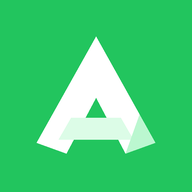
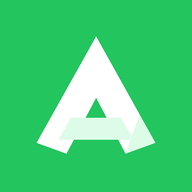
fix(brand): address final review findings

Changed region(s): [[0.6562, 0.5938, 0.8125, 0.8125]]

diff --git a/frontend/src/app/components/NavBar.tsx b/frontend/src/app/components/NavBar.tsx
@@ -167,7 +167,7 @@ export default function NavBar() {
           <div className="ml-auto md:hidden w-36">
             {searchInput(
               mobileSearchRef as React.RefObject<HTMLDivElement>,
-              "w-full rounded-md border border-neutral-300 py-1.5 pl-8 pr-3 text-sm focus:border-brand-bright focus:outline-none focus:ring-2 focus:ring-brand-light",
+              "w-full rounded-md border border-neutral-300 py-1.5 pl-8 pr-3 text-sm focus:border-brand-bright focus:outline-none focus:ring-2 focus:ring-brand-strong",
               "absolute left-0 right-0 top-full z-50 mt-1 overflow-hidden rounded-xl border border-neutral-200 bg-white shadow-lg"
             )}
           </div>
@@ -176,7 +176,7 @@ export default function NavBar() {
           <nav className="ml-auto hidden items-center gap-1 md:flex">
             {searchInput(
               desktopSearchRef as React.RefObject<HTMLDivElement>,
-              "w-44 rounded-md border border-neutral-300 py-1.5 pl-8 pr-3 text-sm focus:border-brand-bright focus:outline-none focus:ring-2 focus:ring-brand-light",
+              "w-44 rounded-md border border-neutral-300 py-1.5 pl-8 pr-3 text-sm focus:border-brand-bright focus:outline-none focus:ring-2 focus:ring-brand-strong",
               "absolute right-0 top-full z-50 mt-1 w-72 overflow-hidden rounded-xl border border-neutral-200 bg-white shadow-lg"
             )}
 

diff --git a/frontend/src/app/squads/page.tsx b/frontend/src/app/squads/page.tsx
@@ -95,7 +95,7 @@ export default function SquadsPage() {
             />
             <button
               type="submit"
-              className="rounded-md bg-brand-strong px-4 py-2 text-sm font-medium text-white hover:bg-green-800 focus-visible:outline-none focus-visible:ring-2 focus-visible:ring-brand-light focus-visible:ring-offset-2"
+              className="rounded-md bg-brand-strong px-4 py-2 text-sm font-medium text-white hover:bg-green-800 focus-visible:outline-none focus-visible:ring-2 focus-visible:ring-brand-strong focus-visible:ring-offset-2"
             >
               만들기
             </button>
@@ -113,7 +113,7 @@ export default function SquadsPage() {
             />
             <button
               type="submit"
-              className="rounded-md bg-brand-strong px-4 py-2 text-sm font-medium text-white hover:bg-green-800 focus-visible:outline-none focus-visible:ring-2 focus-visible:ring-brand-light focus-visible:ring-offset-2"
+              className="rounded-md bg-brand-strong px-4 py-2 text-sm font-medium text-white hover:bg-green-800 focus-visible:outline-none focus-visible:ring-2 focus-visible:ring-brand-strong focus-visible:ring-offset-2"
             >
               참여
             </button>

diff --git a/frontend/src/app/invite/page.tsx b/frontend/src/app/invite/page.tsx
@@ -59,7 +59,7 @@ export default function InvitePage() {
         <button
           type="submit"
           disabled={submitting || !code.trim()}
-          className="w-full rounded-md bg-brand-strong px-4 py-2.5 text-sm font-medium text-white transition hover:bg-green-800 disabled:cursor-not-allowed disabled:opacity-50 focus-visible:outline-none focus-visible:ring-2 focus-visible:ring-brand-light focus-visible:ring-offset-2"
+          className="w-full rounded-md bg-brand-strong px-4 py-2.5 text-sm font-medium text-white transition hover:bg-green-800 disabled:cursor-not-allowed disabled:opacity-50 focus-visible:outline-none focus-visible:ring-2 focus-visible:ring-brand-strong focus-visible:ring-offset-2"
         >
           {submitting ? "가입 처리 중…" : "가입하기"}
         </button>

diff --git a/frontend/src/app/onboarding/page.tsx b/frontend/src/app/onboarding/page.tsx
@@ -169,7 +169,7 @@ export default function OnboardingPage() {
         type="button"
         onClick={submit}
         disabled={saving || !termsChecked || !privacyChecked}
-        className="w-full rounded-md bg-brand-strong px-4 py-2.5 text-sm font-medium text-white hover:bg-green-800 disabled:opacity-50 focus-visible:outline-none focus-visible:ring-2 focus-visible:ring-brand-light focus-visible:ring-offset-2"
+        className="w-full rounded-md bg-brand-strong px-4 py-2.5 text-sm font-medium text-white hover:bg-green-800 disabled:opacity-50 focus-visible:outline-none focus-visible:ring-2 focus-visible:ring-brand-strong focus-visible:ring-offset-2"
       >
         {saving ? "저장 중…" : "시작하기"}
       </button>

diff --git a/frontend/src/app/page.tsx b/frontend/src/app/page.tsx
@@ -44,7 +44,7 @@ function Landing() {
       </p>
       <a
         href={`${apiBase}/oauth2/authorization/google`}
-        className="mt-8 inline-flex items-center justify-center rounded-lg bg-brand-strong px-5 py-2.5 text-sm font-medium text-white transition hover:bg-green-800 focus-visible:outline-none focus-visible:ring-2 focus-visible:ring-brand-light focus-visible:ring-offset-2"
+        className="mt-8 inline-flex items-center justify-center rounded-lg bg-brand-strong px-5 py-2.5 text-sm font-medium text-white transition hover:bg-green-800 focus-visible:outline-none focus-visible:ring-2 focus-visible:ring-brand-strong focus-visible:ring-offset-2"
       >
         Google로 시작하기
       </a>

diff --git a/frontend/scripts/generate_brand_assets.py b/frontend/scripts/generate_brand_assets.py
@@ -61,7 +61,7 @@ def app_icon(size: int, scale: float) -> Image.Image:
     draw = ImageDraw.Draw(image)
     draw.polygon(transformed(OUTER, supersampled, scale), fill=WHITE)
     draw.polygon(transformed(CROSSBAR, supersampled, scale), fill=SOFT)
-    draw.polygon(transformed(END_FACE, supersampled, scale), fill="#BBF7D0")
+    draw.polygon(transformed(END_FACE, supersampled, scale), fill=SOFT)
     return image.resize((size, size), Image.Resampling.LANCZOS)
 
 

diff --git a/docs/superpowers/plans/2026-07-18-brand-logo-pwa.md b/docs/superpowers/plans/2026-07-18-brand-logo-pwa.md
@@ -13,6 +13,8 @@
 - Preserve the existing white and neutral-gray UI; do not recolor every neutral control.
 - Use `#22C55E` for Brand Bright, `#15803D` for Brand Strong, `#DCFCE7` for Brand Soft, and `#4ADE80` for Brand Light.
 - Use `#15803D` rather than `#22C55E` behind white button text.
+- Use Brand Soft `#DCFCE7` for both secondary faces in the app-icon variant.
+- Use Brand Strong `#15803D` for visible focus indicators on white.
 - Keep the navbar wordmark as live Geist SemiBold text with the exact copy `AnimeSquad`.
 - Render the navbar mark at 28px with a 9px gap before the wordmark.
 - Keep danger, warning, and error states on their existing rose/amber colors.
@@ -95,6 +97,21 @@ test("brand SVG uses the approved flat palette and viewBox", async () => {
   assert.match(svg, /#15803D/);
   assert.match(svg, /#4ADE80/);
   assert.doesNotMatch(svg, /linearGradient|filter|shadow/);
+});
+
+test("brand generator excludes the unapproved app icon end-face color", async () => {
+  const generator = (await read("scripts/generate_brand_assets.py")).toString("utf8");
+
+  assert.doesNotMatch(generator, /#BBF7D0/i);
+});
+
+test("app icon end face uses the approved Brand Soft role", async () => {
+  const generator = (await read("scripts/generate_brand_assets.py")).toString("utf8");
+
+  assert.match(
+    generator,
+    /draw\.polygon\(transformed\(END_FACE, supersampled, scale\), fill=SOFT\)/,
+  );
 });
 
 for (const [path, size] of [
@@ -208,7 +225,7 @@ def app_icon(size: int, scale: float) -> Image.Image:
     draw = ImageDraw.Draw(image)
     draw.polygon(transformed(OUTER, supersampled, scale), fill=WHITE)
     draw.polygon(transformed(CROSSBAR, supersampled, scale), fill=SOFT)
-    draw.polygon(transformed(END_FACE, supersampled, scale), fill="#BBF7D0")
+    draw.polygon(transformed(END_FACE, supersampled, scale), fill=SOFT)
     return image.resize((size, size), Image.Resampling.LANCZOS)
 
 
@@ -570,20 +587,34 @@ test("Tailwind exposes the four approved brand roles", async () => {
   assert.match(config, /light:\s*"#4ADE80"/);
 });
 
-test("navbar uses soft selection and bright focus without changing neutral defaults", async () => {
+test("navbar uses soft selection and strong focus without changing neutral defaults", async () => {
   const navbar = await source("./components/NavBar.tsx");
+  const searchClasses = [...navbar.matchAll(/"([^"]*focus:border-brand-bright[^"]*)"/g)].map(
+    ([, classes]) => classes,
+  );
 
   assert.match(navbar, /bg-brand-soft text-brand-strong/);
-  assert.match(navbar, /focus:border-brand-bright/);
-  assert.match(navbar, /focus:ring-brand-light/);
+  assert.equal(searchClasses.length, 2);
+  for (const classes of searchClasses) {
+    assert.match(classes, /focus:ring-brand-strong/);
+    assert.doesNotMatch(classes, /focus:ring-brand-light/);
+  }
   assert.match(navbar, /text-neutral-600 hover:bg-neutral-100/);
 });
 
-test("entry-flow CTAs use the accessible strong green", async () => {
+test("entry-flow CTAs use accessible strong backgrounds and focus rings", async () => {
   for (const path of ["./page.tsx", "./onboarding/page.tsx", "./invite/page.tsx", "./squads/page.tsx"]) {
     const page = await source(path);
-    assert.match(page, /bg-brand-strong/, path);
-    assert.match(page, /hover:bg-green-800/, path);
+    const ctaClasses = [...page.matchAll(/className="([^"]*bg-brand-strong[^"]*)"/g)].map(
+      ([, classes]) => classes,
+    );
+
+    assert.ok(ctaClasses.length > 0, path);
+    for (const classes of ctaClasses) {
+      assert.match(classes, /hover:bg-green-800/, path);
+      assert.match(classes, /focus-visible:ring-brand-strong/, path);
+      assert.doesNotMatch(classes, /focus-visible:ring-brand-light/, path);
+    }
     assert.doesNotMatch(page, /bg-brand-bright[^\n]*text-white/, path);
   }
 });
@@ -620,7 +651,7 @@ Keep the existing `fontFamily` block unchanged.
 
 In `frontend/src/app/components/NavBar.tsx`:
 
-- Replace each search input's `focus:border-neutral-900 focus:outline-none` with `focus:border-brand-bright focus:outline-none focus:ring-2 focus:ring-brand-light`.
+- Replace each search input's `focus:border-neutral-900 focus:outline-none` with `focus:border-brand-bright focus:outline-none focus:ring-2 focus:ring-brand-strong`.
 - Replace desktop active link `bg-neutral-900 text-white` with `bg-brand-soft text-brand-strong`.
 - Replace active desktop profile `bg-neutral-900 text-white` with `bg-brand-soft text-brand-strong`.
 - Replace active mobile link `bg-neutral-100 text-neutral-900` with `bg-brand-soft text-brand-strong`.
@@ -629,8 +660,8 @@ In `frontend/src/app/components/NavBar.tsx`:
 The resulting changed class fragments must be exactly:
 
 ```tsx
-"w-full rounded-md border border-neutral-300 py-1.5 pl-8 pr-3 text-sm focus:border-brand-bright focus:outline-none focus:ring-2 focus:ring-brand-light"
-"w-44 rounded-md border border-neutral-300 py-1.5 pl-8 pr-3 text-sm focus:border-brand-bright focus:outline-none focus:ring-2 focus:ring-brand-light"
+"w-full rounded-md border border-neutral-300 py-1.5 pl-8 pr-3 text-sm focus:border-brand-bright focus:outline-none focus:ring-2 focus:ring-brand-strong"
+"w-44 rounded-md border border-neutral-300 py-1.5 pl-8 pr-3 text-sm focus:border-brand-bright focus:outline-none focus:ring-2 focus:ring-brand-strong"
 
 active ? "bg-brand-soft text-brand-strong" : "text-neutral-600 hover:bg-neutral-100 hover:text-neutral-900"
 profileActive ? "bg-brand-soft text-brand-strong" : "text-neutral-700 hover:bg-neutral-100"
@@ -648,7 +679,7 @@ className="mt-8 inline-flex items-center justify-center rounded-lg bg-neutral-90
 to:
 
 ```tsx
-className="mt-8 inline-flex items-center justify-center rounded-lg bg-brand-strong px-5 py-2.5 text-sm font-medium text-white transition hover:bg-green-800 focus-visible:outline-none focus-visible:ring-2 focus-visible:ring-brand-light focus-visible:ring-offset-2"
+className="mt-8 inline-flex items-center justify-center rounded-lg bg-brand-strong px-5 py-2.5 text-sm font-medium text-white transition hover:bg-green-800 focus-visible:outline-none focus-visible:ring-2 focus-visible:ring-brand-strong focus-visible:ring-offset-2"
 ```
 
 Apply the same color and focus treatment to the existing primary submit buttons in:
@@ -662,7 +693,7 @@ frontend/src/app/squads/page.tsx
 For each existing primary button, replace only `bg-neutral-900` with `bg-brand-strong`, replace only `hover:bg-neutral-700` with `hover:bg-green-800`, and append:
 
 ```text
-focus-visible:outline-none focus-visible:ring-2 focus-visible:ring-brand-light focus-visible:ring-offset-2
+focus-visible:outline-none focus-visible:ring-2 focus-visible:ring-brand-strong focus-visible:ring-offset-2
 ```
 
 Do not change secondary, destructive, admin, modal, or inline edit controls.
@@ -753,7 +784,7 @@ Inspect the site at desktop width and a 390px mobile viewport. Verify:
 - The sticky navbar shows the 28px ribbon-A mark and live `AnimeSquad` text without overflow.
 - The mobile drawer header uses the same lockup and closes after navigating home.
 - Active navbar states use Brand Soft with Brand Strong text; inactive states remain neutral.
-- Entry-flow CTAs on the landing, onboarding, invite, and squad pages use Brand Strong, remain readable on hover, and show a Brand Light keyboard focus ring.
+- Entry-flow CTAs on the landing, onboarding, invite, and squad pages use Brand Strong, remain readable on hover, and show a Brand Strong keyboard focus ring.
 - `/manifest.webmanifest`, `/brand/pwa-512.png`, `/brand/pwa-maskable-512.png`, `/brand/apple-touch-icon.png`, and `/favicon.ico` all return successfully.
 - Circular and rounded-square previews of the maskable icon do not crop the A silhouette.
 
